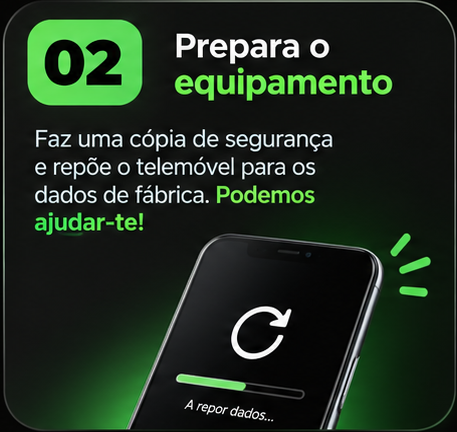
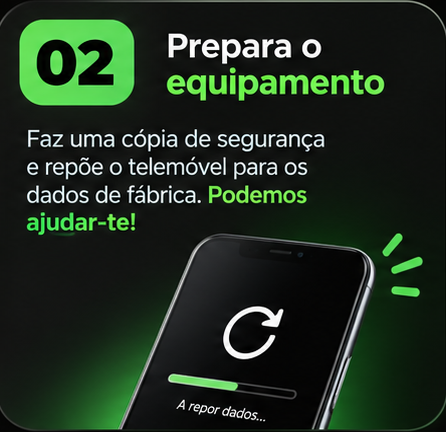
ajustes simples

diff --git a/css/style.css b/css/style.css
@@ -27,12 +27,15 @@ body{
     transition: height 0.5s ease;
     z-index: 1000;
     box-sizing: border-box;
+    border-bottom: 4px solid #39E75F;
+    box-shadow: -2px 0 5px rgba(255, 255, 255, 0.5);
 
 }
 
 .header.pequeno{
     height: 50px;
     transition: height 0.5s ease;
+    border-bottom: 2px solid #39E75F;
 
 }
 
@@ -48,7 +51,7 @@ h1{
 
 
 .header.pequeno .logo-container img{
-    width: 50px;
+    width: 40px;
     height: auto;
     transition: width 0.5s ease, height 0.5s ease;
 }
@@ -63,10 +66,20 @@ h1{
 }
 
 header img {
-    width: 70px;
+    width: 60px;
     height: auto;
     transition: width 0.5s ease, height 0.5s ease;
     }
+
+.header div{
+    width: 50px;
+    height: 40px;
+}
+
+.header.pequeno div{
+    width: 35px;
+    height: 31px;
+}
 
 #btnAside {
     transition: width 0.5s ease, height 0.5s ease, background-color 0.5s ease;
@@ -229,7 +242,9 @@ main h2{
 .passos img {
     width: 30%;
     height: auto;
-    border-radius: 24px;
+    border-radius: 50px;
+    box-shadow: -2px 0 5px rgba(245, 245, 245, 0.5);
+    border: 4px solid #39E75F;
 }
 
 .footer {
@@ -239,16 +254,6 @@ main h2{
     padding: 30px 0;
     position: relative;
  }
-
- .header div{
-    width: 50px;
-    height: 40px;
-}
-
-.header.pequeno div{
-    width: 35px;
-    height: 31px;
-}
 
 .fundoCookies {
     position: fixed;

diff --git a/js/script.js b/js/script.js
@@ -45,6 +45,14 @@ const cookieNegado = document.getElementById("cookieNegado");
 
 let aceitouCookies = false;
 
+let escolha = localStorage.getItem("cookies");
+
+if (escolha === "aceite" || escolha === "recusado") {
+  document.getElementById("cookies").style.display = "none";
+  document.getElementById("fundoCookies").style.display = "none";
+}
+
+
 function fcookies(){
   cookies.style.display = "none";
   fundoCookies.style.display = "none";
@@ -53,12 +61,14 @@ function fcookies(){
     setTimeout(() => {
       cookieAceito.style.display = "none";
     }, 2000);
+    localStorage.setItem("cookies", "aceite");
   }
   else{
     cookieNegado.style.display = "block";
     setTimeout(() => {
       cookieNegado.style.display = "none";
     }, 2000);
+    localStorage.setItem("cookies", "recusado");
   }
 };
 btnAcceptCookies.addEventListener("click", () => {

diff --git a/index.html b/index.html
@@ -52,6 +52,10 @@
         <p>ECO CODE MOBILE · PRIVACIDADE<i class="fa-solid fa-shield-halved"> </i></p>
 
     </div>
+
+    <div class="cookieAceito" id="cookieAceito"></div>
+
+    <div class="cookieNegado" id="cookieNegado"></div>
     
     <aside id="aside">
         <div id="btnCloseAside" class="btnCloseAside">X</div>
